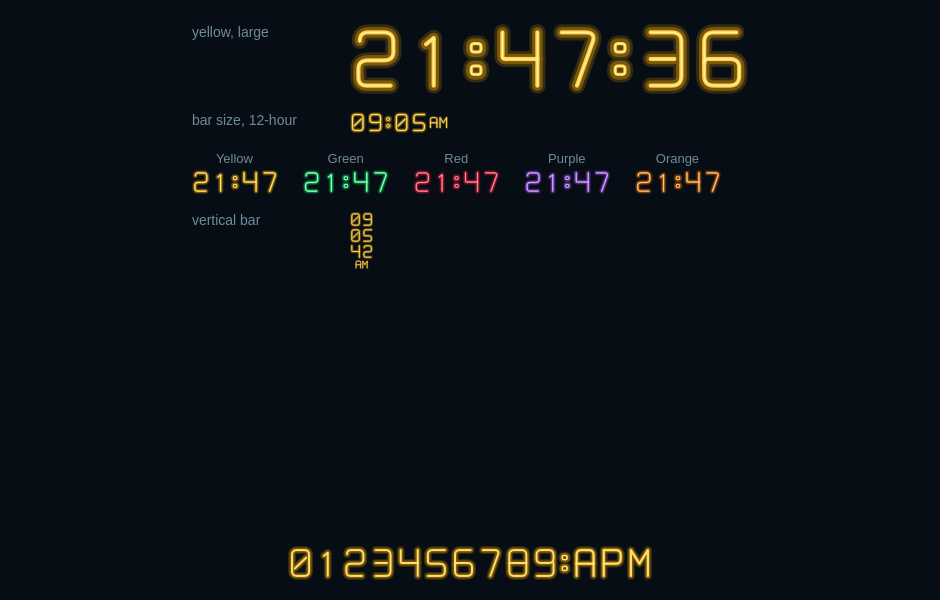
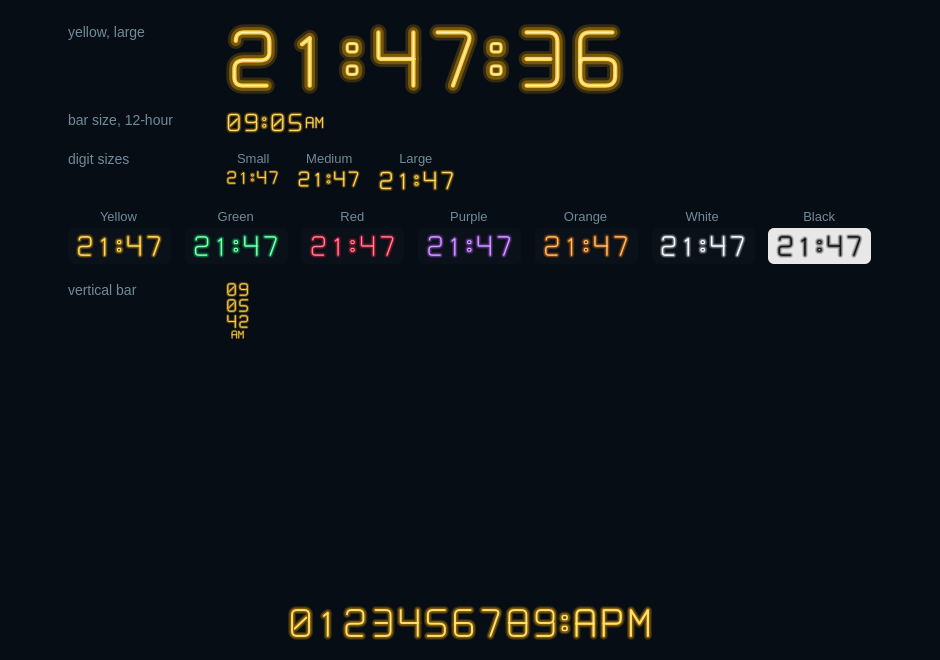
Add white and black colors and digit size presets

diff --git a/tests/test_model.js b/tests/test_model.js
@@ -42,9 +42,24 @@ assert.strictEqual(Model.msUntilNextTick(999, 1000), 1)
 assert.strictEqual(Model.msUntilNextTick(61000, 60000), 59000)
 
 // Tooltip names the actual state.
-assert.ok(Model.tooltipFor(true, false, "yellow").indexOf("24-hour") !== -1)
-assert.ok(Model.tooltipFor(false, true, "red").indexOf("12-hour") !== -1)
-assert.ok(Model.tooltipFor(false, true, "red").indexOf("red") !== -1)
+assert.ok(Model.tooltipFor(true, false, "yellow", "large").indexOf("24-hour") !== -1)
+assert.ok(Model.tooltipFor(false, true, "red", "small").indexOf("12-hour") !== -1)
+assert.ok(Model.tooltipFor(false, true, "red", "small").indexOf("red") !== -1)
+assert.ok(Model.tooltipFor(false, true, "red", "small").indexOf("small") !== -1)
+
+// Size names and factors: large preserves the original proportions, and the
+// three steps are strictly ordered in both orientations.
+assert.deepStrictEqual(Model.DIGIT_SIZES, ["small", "medium", "large"])
+assert.strictEqual(Model.normalizedDigitSize("small"), "small")
+assert.strictEqual(Model.normalizedDigitSize("MEDIUM"), "medium")
+assert.strictEqual(Model.normalizedDigitSize("huge"), "large")
+assert.strictEqual(Model.normalizedDigitSize(undefined), "large")
+assert.strictEqual(Model.horizontalSizeFactor("large"), 0.82)
+assert.strictEqual(Model.verticalSizeFactor("large"), 0.57)
+assert.ok(Model.horizontalSizeFactor("small") < Model.horizontalSizeFactor("medium"))
+assert.ok(Model.horizontalSizeFactor("medium") < Model.horizontalSizeFactor("large"))
+assert.ok(Model.verticalSizeFactor("small") < Model.verticalSizeFactor("medium"))
+assert.ok(Model.verticalSizeFactor("medium") < Model.verticalSizeFactor("large"))
 
 // Every glyph the clock can render has a path and a positive box width.
 var requiredGlyphs = ["0", "1", "2", "3", "4", "5", "6", "7", "8", "9", ":", "A", "P", "M"]
@@ -53,8 +68,9 @@ requiredGlyphs.forEach(function(glyph) {
   assert.ok(Glyphs.widthFor(glyph) > 0, "missing width for " + glyph)
 })
 
-// Palette: five named colours, yellow fallback, and complete paint triples.
-assert.deepStrictEqual(Palette.ORDER, ["yellow", "green", "red", "purple", "orange"])
+// Palette: named colours including light-bar white and black, yellow fallback,
+// and complete paint triples.
+assert.deepStrictEqual(Palette.ORDER, ["yellow", "green", "red", "purple", "orange", "white", "black"])
 Palette.ORDER.forEach(function(name) {
   var color = Palette.colorFor(name)
   assert.ok(color.body && color.glow && color.hot, "incomplete palette for " + name)
@@ -64,14 +80,20 @@ assert.strictEqual(Palette.normalizedColor("RED"), "red")
 assert.strictEqual(Palette.normalizedColor("cyan"), "yellow")
 assert.strictEqual(Palette.normalizedColor(undefined), "yellow")
 assert.strictEqual(Palette.labelFor("purple"), "Purple")
+assert.strictEqual(Palette.labelFor("black"), "Black")
 
-// Manifest options must stay in step with the panel's palette order.
+// Manifest options must stay in step with the panel's palette and size order.
 var manifest = JSON.parse(fs.readFileSync(path.join(__dirname, "..", "manifest.json"), "utf8"))
 var schema = manifest.barWidget.schema
 var colorSchema = schema.filter(function(entry) { return entry.key === "digitColor" })[0]
+var sizeSchema = schema.filter(function(entry) { return entry.key === "digitSize" })[0]
 assert.ok(colorSchema, "manifest is missing digitColor")
 assert.deepStrictEqual(colorSchema.options, Palette.ORDER)
 assert.ok(Palette.ORDER.indexOf(manifest.barWidget.defaults.digitColor) !== -1)
+assert.ok(sizeSchema, "manifest is missing digitSize")
+assert.deepStrictEqual(sizeSchema.options, Model.DIGIT_SIZES)
+assert.strictEqual(sizeSchema.defaultValue, "large")
+assert.strictEqual(manifest.barWidget.defaults.digitSize, "large")
 assert.ok(!schema.some(function(entry) { return entry.key === "digitStyle" }), "digitStyle should be gone")
 
-console.log("Model tests passed: format, meridiem, seconds, ticks, glyphs, palette, manifest.")
+console.log("Model tests passed: format, meridiem, seconds, ticks, glyphs, palette, sizes, manifest.")

diff --git a/preview/Preview.qml b/preview/Preview.qml
@@ -1,15 +1,16 @@
 import QtQuick
 import ".."
 import "../Palette.js" as Palette
+import "../ClockModel.js" as Model
 
-// Offscreen preview: renders the bar-size clock, every digit colour, the
-// vertical layout, and the full glyph set. Run ./preview/run to write
-// preview/neon-clock-preview.png.
+// Offscreen preview: renders the bar-size clock, the three digit sizes, every
+// digit colour (black on a light tile), the vertical layout, and the full
+// glyph set. Run ./preview/run to write preview/neon-clock-preview.png.
 Item {
   id: root
 
   width: 940
-  height: 600
+  height: 660
 
   property date sample: new Date(2026, 10, 12, 21, 47, 36)
 
@@ -62,30 +63,83 @@ Item {
       }
 
       Row {
-        spacing: 24
+        spacing: 28
+        Text {
+          width: 130
+          text: "digit sizes"
+          color: "#6f8a9a"
+          font.pixelSize: 14
+        }
+        Row {
+          spacing: 18
+
+          Repeater {
+            model: Model.DIGIT_SIZES
+
+            delegate: Column {
+              id: sizeColumn
+              required property string modelData
+              spacing: 4
+
+              Text {
+                anchors.horizontalCenter: parent.horizontalCenter
+                text: root.titleCase(sizeColumn.modelData)
+                color: "#6f8a9a"
+                font.pixelSize: 13
+              }
+              NeonTime {
+                date: root.sample
+                use24Hour: true
+                showSeconds: false
+                digitHeight: Math.round(26 * Model.horizontalSizeFactor(sizeColumn.modelData))
+                digitColor: Palette.colorFor("yellow").body
+                glowColor: Palette.colorFor("yellow").glow
+                hotColor: Palette.colorFor("yellow").hot
+              }
+            }
+          }
+        }
+      }
+
+      Row {
+        spacing: 14
 
         Repeater {
           model: Palette.ORDER
 
           delegate: Column {
-            id: swatchColumn
+            id: colorColumn
             required property string modelData
             spacing: 4
 
             Text {
               anchors.horizontalCenter: parent.horizontalCenter
-              text: Palette.labelFor(swatchColumn.modelData)
+              text: Palette.labelFor(colorColumn.modelData)
               color: "#6f8a9a"
               font.pixelSize: 13
             }
-            NeonTime {
-              date: root.sample
-              use24Hour: true
-              showSeconds: false
-              digitHeight: 24
-              digitColor: Palette.colorFor(swatchColumn.modelData).body
-              glowColor: Palette.colorFor(swatchColumn.modelData).glow
-              hotColor: Palette.colorFor(swatchColumn.modelData).hot
+
+            Item {
+              width: neon.implicitWidth + 16
+              height: neon.height + 12
+
+              Rectangle {
+                anchors.fill: parent
+                radius: 6
+                color: colorColumn.modelData === "black" ? "#e8e8e8" : "#0b1118"
+              }
+
+              NeonTime {
+                id: neon
+                anchors.centerIn: parent
+                date: root.sample
+                use24Hour: true
+                showSeconds: false
+                digitHeight: 24
+                digitColor: Palette.colorFor(colorColumn.modelData).body
+                glowColor: Palette.colorFor(colorColumn.modelData).glow
+                hotColor: Palette.colorFor(colorColumn.modelData).hot
+              }
             }
           }
         }
@@ -132,6 +186,11 @@ Item {
         }
       }
     }
+  }
+
+  function titleCase(value) {
+    var text = String(value || "")
+    return text.charAt(0).toUpperCase() + text.slice(1)
   }
 
   Timer {

diff --git a/ControlPanel.qml b/ControlPanel.qml
@@ -18,6 +18,12 @@ PopupCard {
   open: hostWidget ? hostWidget.panelOpen : false
 
   readonly property string activeColor: hostWidget ? hostWidget.digitColor : "yellow"
+  readonly property string activeSize: hostWidget ? hostWidget.digitSize : "large"
+
+  function titleCase(value) {
+    var text = String(value || "")
+    return text.charAt(0).toUpperCase() + text.slice(1)
+  }
 
   contentWidth: fittedContentWidth(Style.space(264))
   contentHeight: fittedContentHeight(column.implicitHeight)
@@ -66,8 +72,9 @@ PopupCard {
         font.bold: true
       }
 
-      Row {
-        spacing: Style.spacing.sm
+      Flow {
+        width: parent.width
+        spacing: Style.spacing.xs
 
         Repeater {
           model: Palette.ORDER
@@ -79,7 +86,7 @@ PopupCard {
 
             readonly property bool selected: root.activeColor === modelData
 
-            width: Style.space(30)
+            width: Style.space(26)
             height: width
 
             Rectangle {
@@ -105,6 +112,37 @@ PopupCard {
               cursorShape: Qt.PointingHandCursor
               onClicked: if (root.hostWidget) root.hostWidget.setOption("digitColor", swatch.modelData)
             }
+          }
+        }
+      }
+    }
+
+    Column {
+      width: column.width
+      spacing: Style.spacing.xs
+
+      Text {
+        text: "Digit size · " + root.titleCase(root.activeSize)
+        textFormat: Text.PlainText
+        color: Commons.Color.foreground
+        font.family: Style.font.family
+        font.pixelSize: Style.font.body
+        font.bold: true
+      }
+
+      Row {
+        spacing: Style.spacing.xs
+
+        Repeater {
+          model: ["small", "medium", "large"]
+
+          delegate: Button {
+            required property string modelData
+
+            text: root.titleCase(modelData)
+            selected: root.activeSize === modelData
+            bordered: true
+            onClicked: if (root.hostWidget) root.hostWidget.setOption("digitSize", modelData)
           }
         }
       }

diff --git a/ClockModel.js b/ClockModel.js
@@ -41,18 +41,45 @@ function msUntilNextTick(nowMs, step) {
   return safeStep - (nowMs % safeStep)
 }
 
-function tooltipFor(use24Hour, showSeconds, digitColor) {
+var DIGIT_SIZES = ["small", "medium", "large"]
+
+function normalizedDigitSize(size) {
+  var key = String(size || "").toLowerCase()
+  return DIGIT_SIZES.indexOf(key) === -1 ? "large" : key
+}
+
+// Fractions of the bar thickness used for the glyph box. Large is the size the
+// clock shipped with; the smaller steps keep the same proportions so the roll
+// animation and spacing scale with the digits.
+function horizontalSizeFactor(size) {
+  return normalizedDigitSize(size) === "small" ? 0.58
+    : normalizedDigitSize(size) === "medium" ? 0.70
+    : 0.82
+}
+
+function verticalSizeFactor(size) {
+  return normalizedDigitSize(size) === "small" ? 0.40
+    : normalizedDigitSize(size) === "medium" ? 0.48
+    : 0.57
+}
+
+function tooltipFor(use24Hour, showSeconds, digitColor, digitSize) {
   var time = use24Hour ? "24-hour" : "12-hour"
   var seconds = showSeconds ? "seconds on" : "seconds off"
-  return "Neon Clock · " + time + ", " + seconds + ", " + String(digitColor) + " · right-click for options"
+  return "Neon Clock · " + time + ", " + seconds + ", " + String(digitColor)
+    + ", " + normalizedDigitSize(digitSize) + " · right-click for options"
 }
 
 if (typeof module !== "undefined") {
   module.exports = {
+    DIGIT_SIZES: DIGIT_SIZES,
     pad2: pad2,
     meridiemFor: meridiemFor,
     timeParts: timeParts,
     msUntilNextTick: msUntilNextTick,
+    normalizedDigitSize: normalizedDigitSize,
+    horizontalSizeFactor: horizontalSizeFactor,
+    verticalSizeFactor: verticalSizeFactor,
     tooltipFor: tooltipFor
   }
 }

diff --git a/BarWidget.qml b/BarWidget.qml
@@ -14,6 +14,7 @@ BarWidget {
   readonly property bool showSeconds: setting("showSeconds", false) === true
   readonly property string digitColor: Palette.normalizedColor(setting("digitColor", "yellow"))
   readonly property var palette: Palette.colorFor(digitColor)
+  readonly property string digitSize: Model.normalizedDigitSize(setting("digitSize", "large"))
 
   // The clock owns the popup state so the bar's popout coordinator sees one
   // stable identity for this widget.
@@ -24,8 +25,8 @@ BarWidget {
 
   readonly property int contentPadding: Math.max(2, Math.round(Style.space(3)))
   readonly property real digitHeight: vertical
-    ? Math.max(9, Math.round(barSize * 0.57))
-    : Math.max(11, Math.round(barSize * 0.82))
+    ? Math.max(8, Math.round(barSize * Model.verticalSizeFactor(digitSize)))
+    : Math.max(10, Math.round(barSize * Model.horizontalSizeFactor(digitSize)))
 
   implicitWidth: button.implicitWidth
   implicitHeight: button.implicitHeight
@@ -90,7 +91,7 @@ BarWidget {
     fixedHeight: root.vertical
       ? time.implicitHeight + root.contentPadding * 2
       : root.barSize
-    tooltipText: Model.tooltipFor(root.use24Hour, root.showSeconds, root.digitColor)
+    tooltipText: Model.tooltipFor(root.use24Hour, root.showSeconds, root.digitColor, root.digitSize)
     pressFeedbackButtons: Qt.NoButton
 
     onPressed: function(mouseButton) {

diff --git a/Palette.js b/Palette.js
@@ -2,14 +2,16 @@
 // body, the glow behind it, and the hot filament colour, so a colour change
 // stays a single lookup and never needs Qt colour maths at paint time.
 
-var ORDER = ["yellow", "green", "red", "purple", "orange"]
+var ORDER = ["yellow", "green", "red", "purple", "orange", "white", "black"]
 
 var COLORS = {
   yellow: { body: "#ffd24a", glow: "#ffb000", hot: "#fff4b8" },
   green:  { body: "#65ff96", glow: "#00e676", hot: "#d2ffe0" },
   red:    { body: "#ff5d6c", glow: "#ff1744", hot: "#ffd3d8" },
   purple: { body: "#c77dff", glow: "#a855f7", hot: "#efd9ff" },
-  orange: { body: "#ffa94d", glow: "#ff7a00", hot: "#ffe3c2" }
+  orange: { body: "#ffa94d", glow: "#ff7a00", hot: "#ffe3c2" },
+  white:  { body: "#ffffff", glow: "#dfefff", hot: "#ffffff" },
+  black:  { body: "#050505", glow: "#000000", hot: "#3a3a3a" }
 }
 
 function normalizedColor(name) {

diff --git a/README.md b/README.md
@@ -9,7 +9,9 @@ built-in clock: both can be placed in the bar at the same time.
 
 ## Features
 
-- Outlined neon digits in yellow, green, red, purple, or orange.
+- Outlined neon digits in yellow, green, red, purple, orange, white, or black.
+  White and black suit light bars.
+- Three digit sizes: small, medium, large.
 - 24-hour or 12-hour display; 12-hour mode adds AM/PM.
 - Optional seconds.
 - Every changed digit rolls up: the new digit enters from below while the old
@@ -24,7 +26,8 @@ Right-click the clock to open the control panel:
 
 - 24-hour or 12-hour time.
 - Show or hide seconds.
-- Digit color: yellow, green, red, purple, orange.
+- Digit color: yellow, green, red, purple, orange, white, black.
+- Digit size: small, medium, large.
 
 Settings are stored inline on this plugin's entry in
 `~/.config/omarchy/shell.json`:
@@ -34,7 +37,8 @@ Settings are stored inline on this plugin's entry in
   "id": "io.github.kambiz.neon-clock",
   "use24Hour": true,
   "showSeconds": false,
-  "digitColor": "yellow"
+  "digitColor": "yellow",
+  "digitSize": "large"
 }
 ```
 
@@ -82,8 +86,8 @@ It writes `preview/neon-clock-preview.png` using the offscreen Qt platform.
 | `NeonGlyph.qml` | Outlined neon renderer: glow, tube body, and hot filament. |
 | `Glyphs.js` | Centre-line paths for `0`–`9`, `:`, `A`, `P`, `M`. |
 | `Palette.js` | Named digit colors and their body, glow, and filament values. |
-| `ClockModel.js` | Time formatting, AM/PM, tick alignment, tooltip text. |
-| `ControlPanel.qml` | Right-click `PopupCard` with the time and color controls. |
+| `ClockModel.js` | Time formatting, AM/PM, tick alignment, digit-size factors, tooltip text. |
+| `ControlPanel.qml` | Right-click `PopupCard` with the time, color, and size controls. |
 
 ## Update
 
